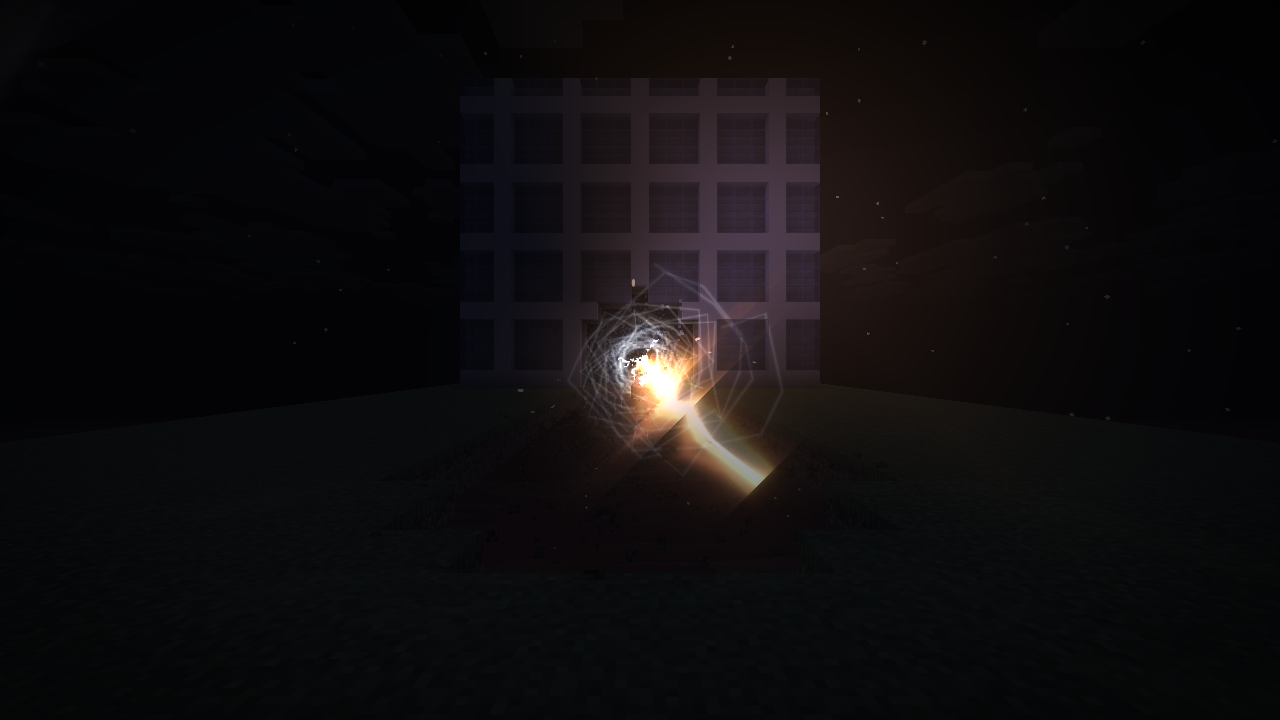
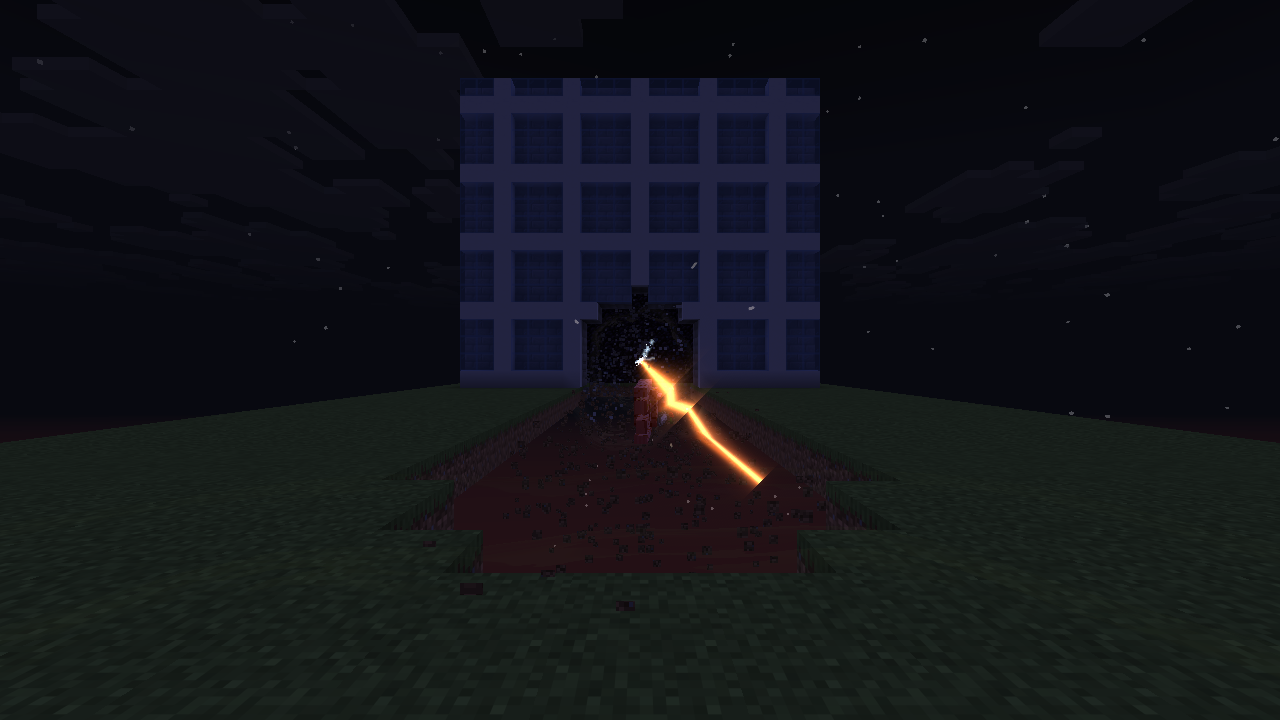
Soften the railgun bloom and keep the dim light and third-person only
- 方形亮部：附属泛光的小图只按顶点颜色插值、不采样贴图，四个角同色的四边形模糊后会留下一块方形亮斑；蓄力时拳头那团 0.4 格的光就是这样。改成交软边形状：带子中线最亮、两边透明，光团是中心亮、边缘透明的一圈扇形。
- 第一人称看自己开炮不再压暗，只留泛光。
- 压暗只给第三人称的射手和附近的人：离射线 10 格内最重，32 格外没有（原来 24/96）。
- 压暗减轻：最重约暗两成（原来六成），往冷灰偏三成（原来五成五），四角加暗 0.25（原来 0.55），暖光 0.25（原来 0.45）。

客户端场景 railgun：第一人称检查泛光跑过、全屏调色没跑；其余机位两样都跑过。

diff --git a/src/main/java/dev/logos/dimension/client/vfx/RailgunDraw.java b/src/main/java/dev/logos/dimension/client/vfx/RailgunDraw.java
@@ -206,16 +206,19 @@ final class RailgunDraw {
     // ---- 泛光 ------------------------------------------------------------------------------------
 
     /**
-     * 交给附属泛光（{@link GlowBloom}）的四边形，坐标相对镜头、世界坐标轴。泛光只认纯色的四边形，
-     * 所以这里交的比画出来的窄：一条亮芯、电弧本身、闪光的中心，模糊之后自己会晕开。
+     * 交给附属泛光（{@link GlowBloom}）的四边形，坐标相对镜头、世界坐标轴。泛光的小图不采样贴图，只按顶点颜色插值，
+     * 四个角同色的四边形模糊之后还是一块方的亮斑（大一点的 {@code GlowBloom.sprite} 就是这样）。所以这里交的都是
+     * 软边的形状：带子中线最亮、两边透明，光团是中心亮、边缘透明的一圈扇形。交的比画出来的窄，模糊之后自己会晕开。
      */
     static final class Glow {
         private float[] data = new float[16 * 64];
         private int size;
-        private Vec3 cam = Vec3.ZERO;
+        private Vec3 cam = Vec3.ZERO, right = new Vec3(1, 0, 0), up = new Vec3(0, 1, 0);
 
-        Glow begin(Vec3 cam) {
-            this.cam = cam;
+        Glow begin(VfxParts.View view) {
+            this.cam = view.cam();
+            this.right = view.right();
+            this.up = view.up();
             size = 0;
             return this;
         }
@@ -228,16 +231,19 @@ final class RailgunDraw {
             data[size++] = colour;
         }
 
-        /** 朝向镜头的一条带子，半宽 {@code width}。 */
+        /** 朝向镜头的一条带子，半宽 {@code width}：中线最亮，往两边淡到透明（两片四边形）。 */
         void band(Vec3 a, Vec3 b, float width, int argb) {
             Vec3 axis = b.subtract(a);
             if (axis.lengthSqr() < 1e-8 || argb >>> 24 == 0) return;
             Vec3 side = perpendicular(axis.normalize(), cam.subtract(a.add(b).scale(.5)));
-            float wa = RailgunDraw.width(a, cam, width), wb = RailgunDraw.width(b, cam, width), c = Float.intBitsToFloat(argb);
-            vertex(a.add(side.scale(wa)), c);
-            vertex(a.subtract(side.scale(wa)), c);
-            vertex(b.subtract(side.scale(wb)), c);
-            vertex(b.add(side.scale(wb)), c);
+            float wa = RailgunDraw.width(a, cam, width), wb = RailgunDraw.width(b, cam, width);
+            float c = Float.intBitsToFloat(argb), edge = Float.intBitsToFloat(argb & 0xFFFFFF);
+            for (int s = -1; s <= 1; s += 2) {
+                vertex(a, c);
+                vertex(a.add(side.scale(wa * s)), edge);
+                vertex(b.add(side.scale(wb * s)), edge);
+                vertex(b, c);
+            }
         }
 
         /** 一串折线，每段一条带子。 */
@@ -256,9 +262,18 @@ final class RailgunDraw {
             }
         }
 
-        /** 一个朝向镜头的方块。 */
-        void sprite(Vec3 at, float size, int argb) {
-            if (size > 0 && argb >>> 24 != 0) GlowBloom.sprite((float) (at.x - cam.x), (float) (at.y - cam.y), (float) (at.z - cam.z), size, argb);
+        /** 朝向镜头的一团光，半径 {@code radius}：中心最亮，到边缘透明（十二片扇形，每片是一个退化的四边形）。 */
+        void disc(Vec3 at, float radius, int argb) {
+            if (radius <= 0 || argb >>> 24 == 0) return;
+            float c = Float.intBitsToFloat(argb), edge = Float.intBitsToFloat(argb & 0xFFFFFF);
+            int n = 12;
+            for (int i = 0; i < n; i++) {
+                double a0 = i * Math.PI * 2 / n, a1 = (i + 1) * Math.PI * 2 / n;
+                vertex(at, c);
+                vertex(at.add(right.scale(Math.cos(a0) * radius)).add(up.scale(Math.sin(a0) * radius)), edge);
+                vertex(at.add(right.scale(Math.cos(a1) * radius)).add(up.scale(Math.sin(a1) * radius)), edge);
+                vertex(at, c);
+            }
         }
 
         /** 交出去；光影包的阴影通道里不交，那时的姿势是太阳的。 */

diff --git a/src/main/java/dev/logos/dimension/client/vfx/RailgunScreen.java b/src/main/java/dev/logos/dimension/client/vfx/RailgunScreen.java
@@ -26,8 +26,9 @@ import net.neoforged.neoforge.client.event.RegisterRenderPipelinesEvent;
 import org.jspecify.annotations.Nullable;
 
 /**
- * 超电磁炮发射时的全屏调色：画面一下压暗、偏冷、四角更暗，只有射线在画面上经过的一条走廊保持原样，
- * 并被射线的暖光照亮一点。泛光（{@code GlowBloom}）在这之后才加上去，所以射线格外亮。
+ * 超电磁炮发射时的全屏调色：画面稍微压暗、偏冷一点、四角更暗一点，射线在画面上经过的一条走廊保持原样，
+ * 并被射线的暖光照亮一点。泛光（{@code GlowBloom}）在这之后才加上去，所以射线显得更亮。
+ * 只给第三人称的射手和附近的人：射手自己第一人称时不压暗，只有泛光。
  * <p>
  * 由 {@code ScreenEffectMixin} 在世界和手画完之后、爆裂魔法的通道之前调用。只读最终画面的颜色，
  * 不碰光影包的缓冲；附近没有刚发射的超电磁炮时一个通道都不跑。
@@ -42,14 +43,14 @@ public final class RailgunScreen {
             .withUniform("Railgun", UniformType.UNIFORM_BUFFER)
             .build();
     private static final int UNIFORM_SIZE = new Std140SizeCalculator().putVec4().putVec4().putVec4().get();
-    /** 离射线这么近时调色最重，这么远时没有。 */
-    private static final float NEAR = 24, FAR = 96;
+    /** 离射线这么近时调色最重，这么远时没有：只有附近的人看得到。 */
+    private static final float NEAR = 10, FAR = 32;
     /** 画面上保持原样的走廊：射线两侧约这么多格。 */
     private static final double CORRIDOR = 1.8;
     /** 走廊在画面上最宽多少（以画面高度为 1）：第一人称时出口贴着镜头，不然会亮掉半个画面。 */
     private static final float CORRIDOR_MAX = .1f;
     /** 射线的暖光（橙）和它照亮周围的强度。 */
-    private static final float WARM_R = 1, WARM_G = .58f, WARM_B = .28f, WARM = .45f;
+    private static final float WARM_R = 1, WARM_G = .58f, WARM_B = .28f, WARM = .25f;
     private static @Nullable RenderTarget copy;
     private static @Nullable MappableRingBuffer uniforms;
     private static long passes;
@@ -74,7 +75,11 @@ public final class RailgunScreen {
         float pt = mc.getDeltaTracker().getGameTimeDeltaPartialTick(false);
         RailgunShot best = null;
         float dim = 0;
+        var viewer = mc.getCameraEntity();
+        boolean firstPerson = mc.options.getCameraType().isFirstPerson();
         for (RailgunShot s : RailgunClient.liveShots()) {
+            // 第一人称看自己开炮：不压暗，只留泛光
+            if (firstPerson && viewer != null && viewer.getId() == s.shooter()) continue;
             float d = s.dim(s.age(mc.level, pt)) * (1 - VfxParts.smooth(NEAR, FAR, (float) distance(eye, s.muzzle(), s.end())));
             if (d > dim) {
                 dim = d;

diff --git a/src/main/java/dev/logos/dimension/client/vfx/RailgunShot.java b/src/main/java/dev/logos/dimension/client/vfx/RailgunShot.java
@@ -149,7 +149,7 @@ final class RailgunShot {
 
     /** 交给泛光的：亮芯、出口和命中的闪光、出口冲击环的白边、螺旋电弧。射线收成余线以后就不交了。 */
     private void bloom(VfxParts.View view, float t, float near) {
-        Glow g = GLOW_OUT.begin(view.cam());
+        Glow g = GLOW_OUT.begin(view);
         if (t < AFTER) {
             float reach = Math.min(1, t / SHOOT), tip = length * (1 - (1 - reach) * (1 - reach));
             float k = VfxParts.smooth(HOT, AFTER, t);
@@ -160,10 +160,10 @@ final class RailgunShot {
         float flash = flash(t, 10);
         if (flash > 0) {
             Vec3 c = muzzleDressing(near, 1.4);
-            g.sprite(c, Math.min((1.2f + 1.6f * near) * flash, .3f * (float) view.cam().distanceTo(c)), VfxParts.argb(flash, 0xFFE0B0));
+            g.disc(c, Math.min((1.7f + 2.2f * near) * flash, .4f * (float) view.cam().distanceTo(c)), VfxParts.argb(flash, 0xFFE0B0));
         }
         float hit = struck ? flash(t - SHOOT, 10) : 0;
-        if (hit > 0) g.sprite(impact(), 3 * hit, VfxParts.argb(hit, 0xFFD0A0));
+        if (hit > 0) g.disc(impact(), 4.2f * hit, VfxParts.argb(hit, 0xFFD0A0));
         if (t < RING_LIFE) {
             float q = t / RING_LIFE;
             g.ring(muzzleDressing(near, 1.6).subtract(axis.scale(.3 * near)), axis, .4f + 3.6f * easeOut(q), .08f, 48,

diff --git a/src/main/java/dev/logos/dimension/client/RailgunView.java b/src/main/java/dev/logos/dimension/client/RailgunView.java
@@ -79,8 +79,10 @@ public class RailgunView implements UIScenario {
                 });
         for (int a : after) s.waitUntil(view + " 发射后第 " + a + " 刻", ctx -> Minecraft.getInstance().level.getGameTime() - fired >= a)
                 .screenshot(view + "_fire_" + a);
-        return s.check("发射时跑过全屏调色和泛光 " + view, ctx -> dev.logos.dimension.client.vfx.RailgunScreen.passes() > 0
-                        && dev.logos.dimension.client.screenfx.GlowBloom.passes() > 0)
+        // 第一人称看自己开炮只有泛光；别的机位离得近，还会压暗一点
+        boolean own = view.equals("first");
+        return s.check("发射时跑过泛光、" + (own ? "没有" : "有") + "全屏调色 " + view, ctx -> dev.logos.dimension.client.screenfx.GlowBloom.passes() > 0
+                        && (dev.logos.dimension.client.vfx.RailgunScreen.passes() > 0) != own)
                 .waitUntil("特效结束 " + view, ctx -> RailgunClient.shots() == 0);
     }
 

diff --git a/src/main/java/dev/logos/dimension/client/vfx/RailgunCharge.java b/src/main/java/dev/logos/dimension/client/vfx/RailgunCharge.java
@@ -90,9 +90,9 @@ final class RailgunCharge {
 
         // 泛光：拳头的蓝光、越蓄越亮的硬币；第一人称不交，贴着镜头的泛光也会被丢掉
         if (!g.own()) {
-            Glow glow = GLOW_OUT.begin(eye);
-            glow.sprite(g.fist(), .12f + .3f * charge, VfxParts.argb(.8f * charge * fade, GLOW_BLUE));
-            if (coinShown) glow.sprite(coin, .1f + .08f * charge, VfxParts.argb((.3f + .5f * charge) * fade, 0xDDF2FF));
+            Glow glow = GLOW_OUT.begin(view);
+            glow.disc(g.fist(), .18f + .4f * charge, VfxParts.argb(.8f * charge * fade, GLOW_BLUE));
+            if (coinShown) glow.disc(coin, .14f + .1f * charge, VfxParts.argb((.3f + .5f * charge) * fade, 0xDDF2FF));
             glow.flush();
         }
 

diff --git a/docs/RAILGUN.md b/docs/RAILGUN.md
@@ -43,8 +43,8 @@
 - 身后的冲击（参考动画发射时人物身后）：从出口前方起顺着身子四周往后呈锥形张开的白色气浪线；一团团往身后喷、边滚大边往两侧散开的尘土（悬空开炮时没有，靠近镜头的淡出，第三人称背面不糊住画面）；被掀飞到身后的地面碎块。
 - 命中（被挡住时）：大的气浪环、音爆锥、闪光、爆炸烟和往回溅的碎块。
 - 后期（见 [SCREEN_EFFECTS.md](SCREEN_EFFECTS.md)）：
-  - **泛光**：亮芯、出口和命中的闪光、出口冲击环的白边、螺旋电弧交给 `GlowBloom`，射线收成余线后就不交了；蓄力时拳头的蓝光和硬币也泛光（第一人称不交）。
-  - **周围变暗**：`RailgunScreen` 的全屏调色，发射时一下压暗约六成、偏冷、四角更暗，射线在画面上经过的一条走廊（两侧约 1.8 格，画面上最宽一成画面高）保持原样，还被射线的暖光照亮一点；第 9 刻起慢慢回来，第 26 刻恢复。离射线 24 格内最重，96 格外没有。排在泛光和爆裂魔法的通道之前，所以射线和泛光不跟着变暗。只读最终画面的颜色，附近没有刚发射的超电磁炮时不跑。
+  - **泛光**：亮芯、出口和命中的闪光、出口冲击环的白边、螺旋电弧交给 `GlowBloom`，射线收成余线后就不交了；蓄力时拳头的蓝光和硬币也泛光（自己第一人称时不交）。泛光的小图只按顶点颜色插值、不采样贴图，四个角同色的四边形（比如较大的 `GlowBloom.sprite`）模糊后会留下一块方形亮斑，所以交的都是软边形状：带子中线最亮、两边透明，光团是中心亮、边缘透明的一圈扇形。
+  - **周围变暗**：`RailgunScreen` 的全屏调色，发射时稍微压暗（最重约两成）、偏冷一点、四角更暗一点，射线在画面上经过的一条走廊（两侧约 1.8 格，画面上最宽一成画面高）保持原样，还被射线的暖光照亮一点；第 9 刻起慢慢回来，第 26 刻恢复。只给第三人称的射手和附近的人：离射线 10 格内最重，32 格外没有；射手自己第一人称时不压暗，只有泛光。排在泛光和爆裂魔法的通道之前，射线和泛光不跟着变暗。只读最终画面的颜色，没人需要时不跑。
 - 镜头：射手镜头震一下，附近的人轻一点。第一人称看自己开炮时，出口的闪光、环和音爆锥都往前推、收小，不糊住画面。
 
 ## 测试
@@ -69,9 +69,9 @@
 | --- | --- | --- | --- |
 | ![](screenshots/railgun/side-charge.png) | ![](screenshots/railgun/side-fire.png) | ![](screenshots/railgun/side-dust.png) | ![](screenshots/railgun/side-afterline.png) |
 
-| 发射时变暗、泛光（侧面，夜） | 第一人称 | 第三人称背面，白天 |
-| --- | --- | --- |
-| ![](screenshots/railgun/side-fire-graded.png) | ![](screenshots/railgun/first-person-graded.png) | ![](screenshots/railgun/back-day-graded.png) |
+| 发射时稍暗、泛光（侧面，夜） | 第一人称：只有泛光 | 第三人称背面，白天 | 蓄力时拳头的软光 |
+| --- | --- | --- | --- |
+| ![](screenshots/railgun/side-fire-graded.png) | ![](screenshots/railgun/first-person-graded.png) | ![](screenshots/railgun/back-day-graded.png) | ![](screenshots/railgun/front-charge-bloom.png) |
 
 | 蓄力（第一人称） | 打穿的楼和地沟 | 冲击环（第三人称背面，白天） |
 | --- | --- | --- |
